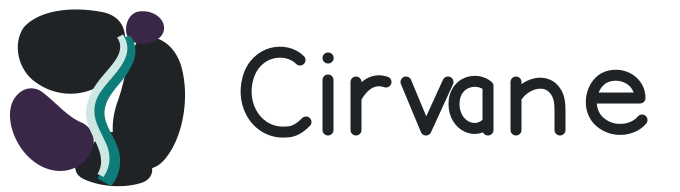
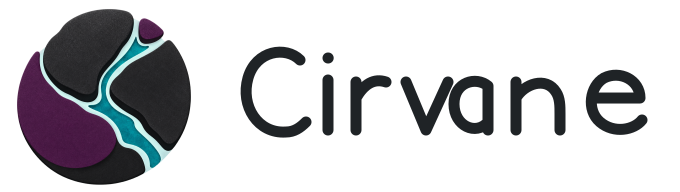
Complete Cirvane dimensional brand identity

Changed region(s): [[0.0, 0.0312, 0.2779, 0.9688]]

diff --git a/scripts/validate_brand.py b/scripts/validate_brand.py
@@ -19,9 +19,15 @@ REQUIRED_SOURCES = {
     "cirvane-horizontal-reversed.svg", "cirvane-horizontal.svg",
     "cirvane-icons.svg", "cirvane-stacked.svg", "cirvane-symbol-mono.svg",
     "cirvane-symbol-reversed.svg", "cirvane-symbol-small.svg",
-    "cirvane-symbol.svg", "cirvane-wordmark-reversed.svg", "cirvane-wordmark.svg",
+    "cirvane-symbol.svg", "cirvane-symbol-dimensional.png",
+    "cirvane-symbol-mono-dimensional.png", "cirvane-wordmark-reversed.svg",
+    "cirvane-wordmark.svg",
 }
-FORBIDDEN_TAGS = {"script", "foreignObject", "image", "iframe", "audio", "video"}
+FORBIDDEN_TAGS = {"script", "foreignObject", "iframe", "audio", "video"}
+ALLOWED_LOCAL_IMAGES = {
+    "cirvane-symbol-dimensional.png", "cirvane-symbol-mono-dimensional.png",
+    "cirvane-wordmark.svg", "cirvane-wordmark-reversed.svg",
+}
 MATURITY = re.compile(r"\b(?:alpha|beta|evaluation|experimental|preview|release candidate|production-ready)\b", re.I)
 
 
@@ -53,7 +59,7 @@ def png_dimensions(path: Path) -> list[int]:
 
 def main() -> int:
     failures: list[str] = []
-    actual_sources = {path.name for path in (BRAND / "source").glob("*.svg")}
+    actual_sources = {path.name for path in (BRAND / "source").iterdir() if path.is_file()}
     if actual_sources != REQUIRED_SOURCES:
         failures.append(f"canonical source inventory mismatch: {sorted(actual_sources)}")
 
@@ -79,8 +85,8 @@ def main() -> int:
                 attribute = local_name(name)
                 if attribute.lower().startswith("on"):
                     failures.append(f"{path.relative_to(ROOT)}: event attribute {attribute}")
-                if attribute in {"href", "src"}:
-                    failures.append(f"{path.relative_to(ROOT)}: external resource attribute {attribute}")
+                if attribute in {"href", "src"} and value not in ALLOWED_LOCAL_IMAGES:
+                    failures.append(f"{path.relative_to(ROOT)}: undeclared or external resource {value}")
                 if "url(" in value and "url(#" not in value:
                     failures.append(f"{path.relative_to(ROOT)}: external URL reference")
         if "/overlays/" not in f"/{path.relative_to(BRAND)}" and MATURITY.search(raw):
@@ -120,7 +126,7 @@ def main() -> int:
                 failures.append(f"manifest digest mismatch: {entry['path']}")
             if path.suffix == ".png" and png_dimensions(path) != entry["dimensions"]:
                 failures.append(f"manifest dimensions mismatch: {entry['path']}")
-            if path.suffix == ".png":
+            if path.suffix == ".png" and "/exports/" in f"/{entry['path']}":
                 source_path = entry.get("sourcePath")
                 source_digest = entry.get("sourceSha256")
                 if not source_path or not (ROOT / source_path).is_file():

diff --git a/scripts/generate_brand_manifest.py b/scripts/generate_brand_manifest.py
@@ -14,6 +14,7 @@ from xml.etree import ElementTree
 ROOT = Path(__file__).resolve().parents[1]
 BRAND = ROOT / "assets" / "brand"
 EXPORT_SOURCES = {
+    "cirvane-symbol-mono-dimensional.png": "assets/brand/source/cirvane-symbol-dimensional.png",
     "cirvane-symbol-16.png": "assets/brand/source/cirvane-symbol-small.svg",
     "cirvane-symbol-32.png": "assets/brand/source/cirvane-symbol-small.svg",
     "cirvane-symbol-64.png": "assets/brand/source/cirvane-symbol.svg",
@@ -90,6 +91,10 @@ def main() -> int:
             relative = path.relative_to(ROOT)
         except ValueError:
             relative = Path("assets/brand/exports") / path.name
+        is_export = relative.parts[:3] == ("assets", "brand", "exports")
+        is_dimensional_source = relative.name in {
+            "cirvane-symbol-dimensional.png", "cirvane-symbol-mono-dimensional.png"
+        }
         entry = {
             "path": str(relative),
             "sha256": digest(path),
@@ -98,14 +103,23 @@ def main() -> int:
             "colourSpace": "sRGB" if media_type.startswith("image/") else None,
             "licence": "MIT",
             "creator": "OpenAI Codex under owner direction",
-            "provenance": "manually authored deterministic source" if path.suffix != ".png" else "deterministic librsvg export",
+            "provenance": (
+                "owner-approved AI-assisted raster master and deterministic derivative"
+                if is_dimensional_source else
+                "deterministic librsvg export" if is_export else
+                "manually authored deterministic source"
+            ),
             "allowedUse": allowed_use(relative),
-            "exportCommand": "scripts/export-brand-assets.sh" if path.suffix == ".png" else None,
+            "exportCommand": (
+                "scripts/export-brand-assets.sh" if is_export else
+                "scripts/generate-brand-derivatives.sh" if relative.name == "cirvane-symbol-mono-dimensional.png" else
+                None
+            ),
             "sourcePath": EXPORT_SOURCES.get(path.name),
             "sourceSha256": digest(ROOT / EXPORT_SOURCES[path.name]) if path.name in EXPORT_SOURCES else None,
         }
         entries.append(entry)
-    document = {"schemaVersion": 1, "brandVersion": "1.0.0", "assets": entries}
+    document = {"schemaVersion": 1, "brandVersion": "2.0.0", "assets": entries}
     output.parent.mkdir(parents=True, exist_ok=True)
     output.write_text(json.dumps(document, indent=2, sort_keys=True) + "\n", encoding="utf-8")
     print(f"Generated manifest with {len(entries)} entries at {output}")

diff --git a/docs/BRAND_IDENTITY.md b/docs/BRAND_IDENTITY.md
@@ -54,12 +54,12 @@ Allowed current terms include bounded, supervised, rollback-tested, signed-updat
 
 The owner selected Recovery Scar on 2026-08-24 after rejecting two rounds of flat geometric marks. The mark is an irregular recovered artefact divided by a living mineral-teal seam. The disruption is not hidden: repair becomes the most recognisable feature.
 
-The canonical master is `assets/brand/source/cirvane-symbol.svg`. It was manually reconstructed as deterministic SVG geometry from an AI-assisted concept and contains no traced raster, font, external resource or third-party icon.
+The canonical expressive master is `assets/brand/source/cirvane-symbol-dimensional.png`, an owner-approved AI-assisted transparent raster artwork. `cirvane-symbol.svg` is a deterministic local wrapper used by the export pipeline and lockups. The monochrome source is a deterministic one-colour derivative that preserves the master silhouette and expresses the recovery channel as negative space. No third-party icon, font or remotely loaded resource is present.
 
 ### Construction and responsive use
 
-- Use the full-colour symbol at 32px or larger.
-- Use `cirvane-symbol-small.svg` from 16px through 31px.
+- Use the full-colour dimensional symbol at 32px or larger wherever the channel and stone texture remain clear.
+- Use `cirvane-symbol-small.svg` from 16px through 31px; it retains the approved composition but must be visually checked on its actual background.
 - Use the monochrome symbol when colour reproduction, forced colour or print constraints would collapse the seam.
 - Use the reversed symbol and lockup only on aubergine, graphite or imagery dark enough to maintain contrast.
 - Minimum horizontal lockup width is 136px; minimum stacked width is 86px.
@@ -109,10 +109,10 @@ Required text pairs are machine-validated against WCAG AA. High-contrast and for
 
 ## Assets, provenance and governance
 
-Canonical sources live in `assets/brand/source/`; deterministic exports in `assets/brand/exports/`; templates in `assets/brand/templates/`; tokens in `assets/brand/tokens/`; licences in `assets/brand/LICENSES/`; and digests plus allowed use in `assets/brand/BRAND_ASSET_MANIFEST.json`.
+Canonical sources live in `assets/brand/source/`; deterministic exports in `assets/brand/exports/`; templates in `assets/brand/templates/`; tokens in `assets/brand/tokens/`; licences in `assets/brand/LICENSES/`; and digests plus allowed use in `assets/brand/BRAND_ASSET_MANIFEST.json`. Canonical SVG wrappers may reference only the declared local raster masters and wordmark sources. Validation rejects undeclared, remote and unsafe resources.
 
 Product and brand ownership remains with the repository owner. Engineering owns deterministic export and manifest integrity. Security owns claim-boundary review. Accessibility owns contrast and non-colour semantics. Legal owns trademark clearance before public opening. Changes require a versioned source change, regenerated exports, validation, PR review and an updated manifest; released assets are archived rather than silently overwritten.
 
 ## Remaining external gates
 
-The identity is technically complete only when repository validation, deterministic reproduction and visual QA pass. Public use additionally requires professional name and mark clearance, cultural review and owner approval of the rendered release surfaces. Visual polish is not product, security or production evidence.
+The identity is technically complete only when repository validation, deterministic reproduction and visual QA pass. Public use additionally requires professional name and mark clearance, cultural review, AI-assisted asset rights review and owner approval of the rendered release surfaces. Visual polish is not product, security or production evidence.

diff --git a/assets/brand/LICENSES/README.md b/assets/brand/LICENSES/README.md
@@ -1,7 +1,7 @@
 # Brand asset licences and provenance
 
-The Cirvane Recovery Scar symbol, custom path-based wordmark, lockups, icons, templates and design tokens are original project assets authored by OpenAI Codex under the owner's direction in 2026. They contain no traced raster artwork, third-party icons, embedded fonts or externally linked resources. They are distributed under the repository's MIT licence unless a future asset manifest explicitly records another licence.
+The Cirvane Recovery Scar dimensional symbol is an AI-assisted original project asset generated and selected under the owner's direction in 2026. The monochrome derivative, custom path-based wordmark, lockups, icons, templates and design tokens were produced for this repository from that approved identity. No third-party icon, embedded font or remotely linked resource is included. Repository distribution is under the MIT licence unless a future asset manifest records another licence; professional review of AI-assisted asset rights remains a public-opening gate.
 
 The canonical wordmark is path-based and therefore has no font dependency. Product interfaces use platform system-font stacks; the repository redistributes no font files. Each operating system vendor's licence governs its locally installed system fonts.
 
-AI image generation was used only for non-canonical concept exploration. The selected Recovery Scar concept was manually reconstructed as new deterministic SVG geometry. Generated concept images are not shipped brand assets.
+The canonical dimensional source is the approved transparent extraction of the selected Recovery Scar concept. Its provenance and digest are recorded in the brand manifest. Earlier concept boards and rejected manual reconstructions remain design evidence only and are not shipped as canonical assets.

diff --git a/docs/brand/ASSET_USAGE.md b/docs/brand/ASSET_USAGE.md
@@ -12,7 +12,7 @@
 | Centred cover, poster or presentation | `cirvane-stacked.svg` |
 | Text-only constrained header | `cirvane-wordmark.svg` |
 
-Never use candidate assets outside design review. The `assets/brand/candidates/` tree records rejected and exploratory work and is excluded from the canonical manifest.
+Never use candidate assets outside design review. The `assets/brand/candidates/` tree records rejected and exploratory work and is excluded from the canonical manifest. The approved concept has been promoted by copying it into `assets/brand/source/cirvane-symbol-dimensional.png`; consumers must use the canonical source or exports, not the candidate copy.
 
 ## Plain-text fallback
 
@@ -28,5 +28,5 @@ Lifecycle and assurance language belongs in a separately named overlay instance.
 2. Preserve clear space and aspect ratio.
 3. Provide accessible naming when the mark conveys identity.
 4. Use semantic icons and labels for operational states.
-5. Regenerate rather than editing an exported PNG.
+5. Regenerate rather than editing an exported PNG or resizing the candidate master independently.
 6. Verify the asset digest against `BRAND_ASSET_MANIFEST.json`.

diff --git a/docs/brand/QUIET_HORIZON_SYMBOL_REVIEW.md b/docs/brand/QUIET_HORIZON_SYMBOL_REVIEW.md
@@ -2,7 +2,7 @@
 
 ## Decision state
 
-Cirvane and the palette are owner-approved. The owner rejected the first geometric and second faceted rounds as too visually anonymous. They remain as negative evidence. On 2026-08-24 the owner selected Recovery Scar from a creative-reset exploration. Its deterministic reconstruction is the canonical identity. Professional legal clearance remains open.
+Cirvane and the palette are owner-approved. The owner rejected the first geometric and second faceted rounds as too visually anonymous. They remain as negative evidence. On 2026-08-24 the owner selected Recovery Scar from a creative-reset exploration, rejected a later manual vector reconstruction as a design regression and approved a transparent extraction faithful to the selected concept as the canonical expressive identity. Professional legal and AI-assisted asset rights clearance remain open.
 
 ## Method
 
